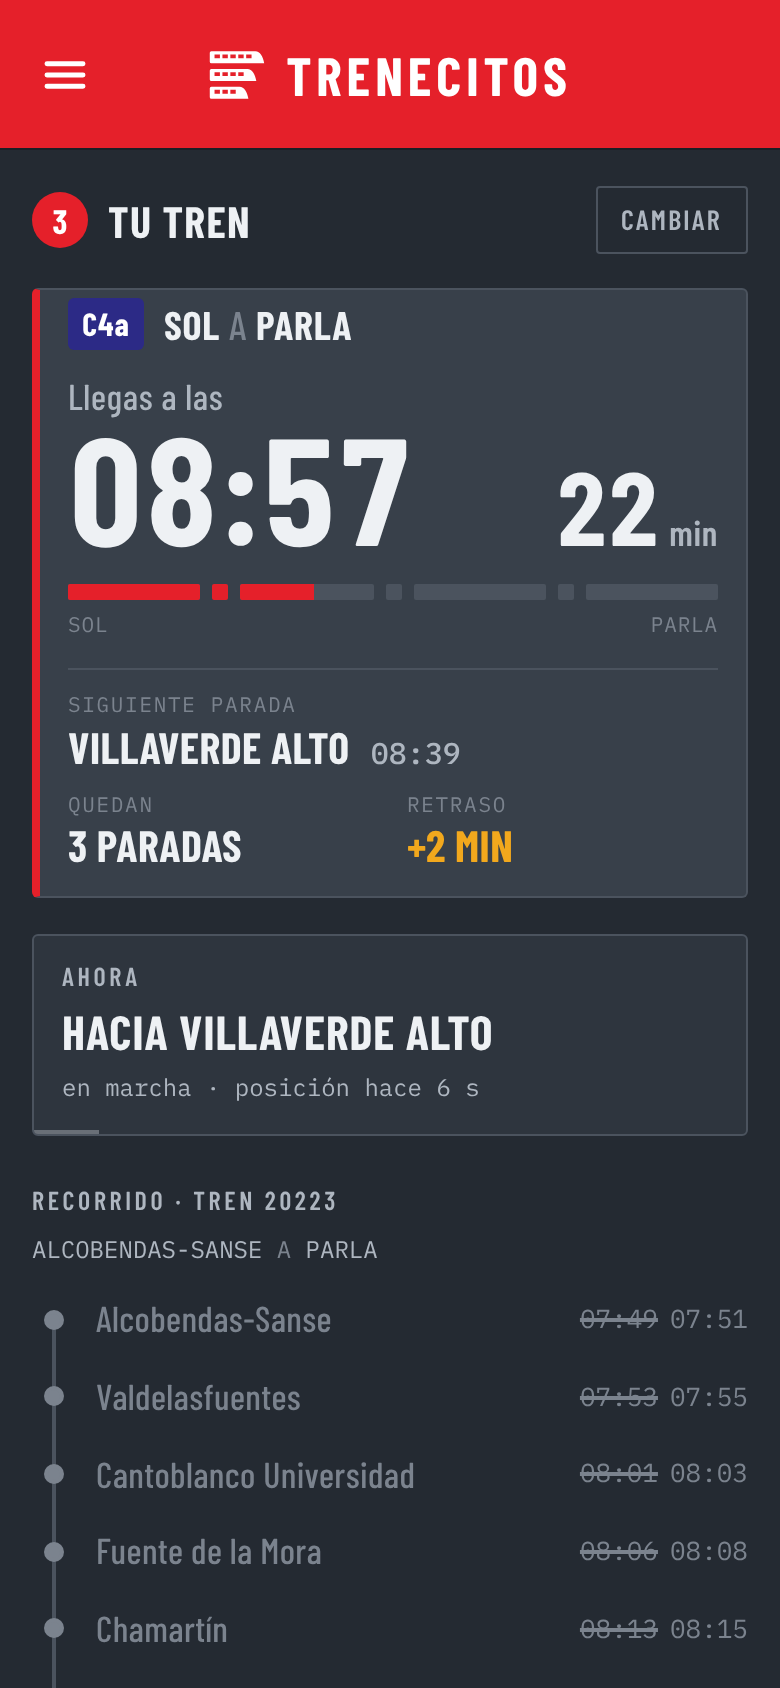
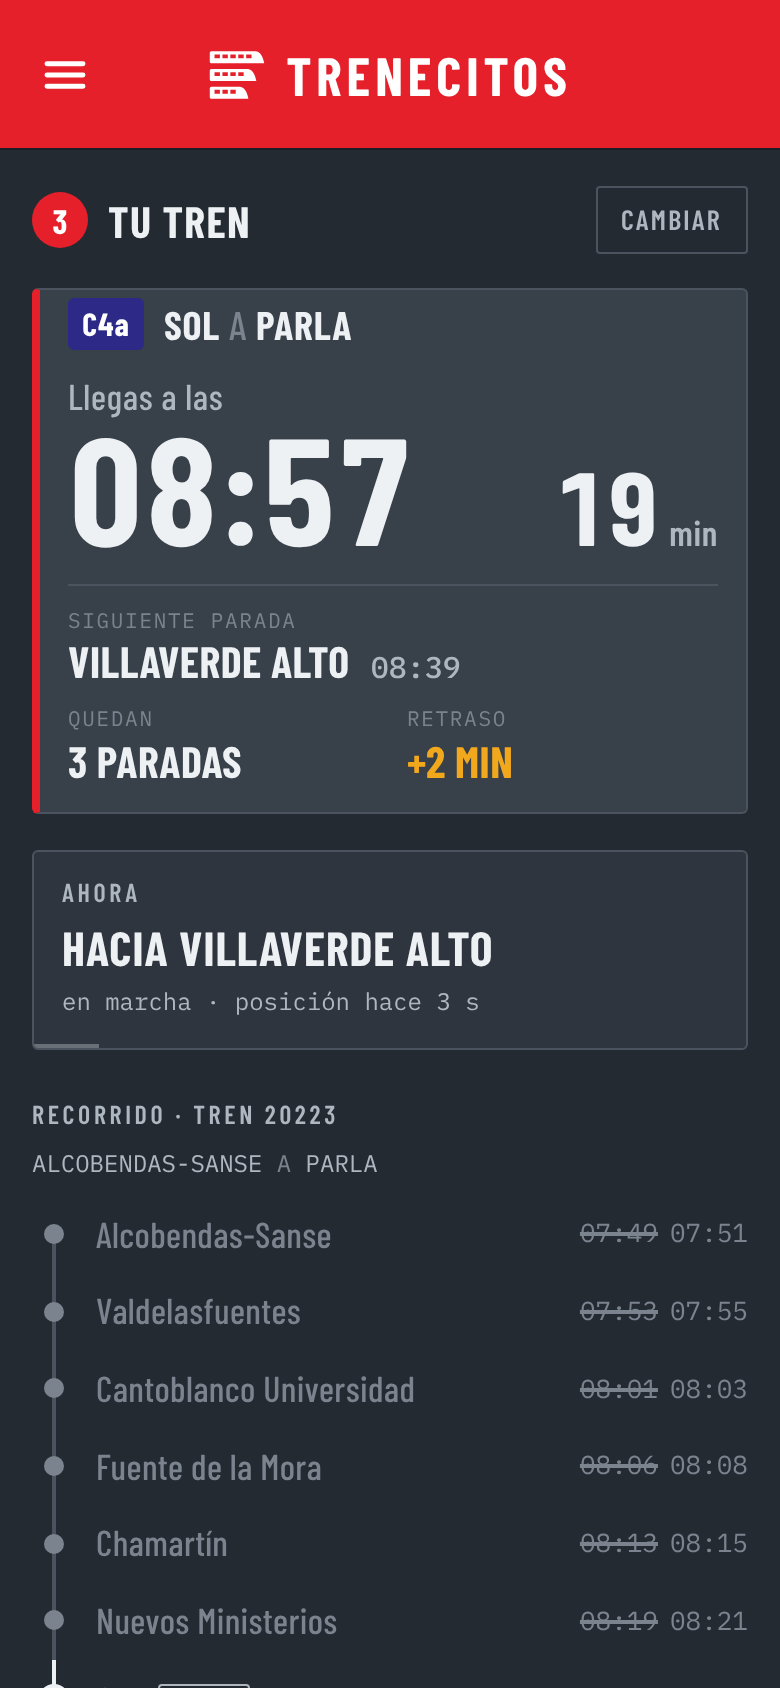
Paso 3: quita la barra de tramos y los nombres de debajo
El detalle ya está en «Siguiente parada», «Quedan» y el recorrido. Capturas del paso 3 y vista previa rehechas (og:image ?v=8). Versión 121.

Claude-Session: https://claude.ai/code/session_01XLSZwhcpX4cWhsFef5cfD3

diff --git a/src/ride.js b/src/ride.js
@@ -26,16 +26,6 @@ export function rideInfo(d, now) {
 /** Marca de tiempo (ms) tras la cual la tarjeta se retira sola. */
 export const rideExpiry = (ride, d) => (d ? d.train.estArr : ride.schedArr) + (d ? 4 : 40) * 60e3;
 
-/**
- * Relleno (0–1) del tramo i de la barra del paso 3. k es el tramo en el que va el tren (-1: aún no ha salido):
- * los anteriores, llenos; los siguientes, vacíos; el suyo, por tiempo entre sus dos paradas (sin llegar a tocarlas).
- */
-export function progFill(times, k, i, now, stopped = false) {
-  if (i < k) return 1;
-  if (i > k || stopped) return 0;
-  return Math.min(.92, Math.max(.08, (now - times[i]) / Math.max(1, times[i + 1] - times[i])));
-}
-
 const cell = (k, v, cls = '', wide = false) => `<div class="ride__c${wide ? ' ride__c--wide' : ''}"><span>${k}</span><b${cls ? ` class="${cls}"` : ''}>${v}</b></div>`;
 
 export function rideHTML(ride, d, now) {
@@ -44,7 +34,7 @@ export function rideHTML(ride, d, now) {
   if (!d) return `<section class="ride"><div class="ride__body"><div class="ride__who">${who}</div><p class="ride__sub">Cargando…</p></div></section>`;
 
   const t = d.train, info = rideInfo(d, now), dl = delayInfo(t.delay);
-  let main, sub = '', cells = '', prog = '', waiting3 = false;
+  let main, sub = '', cells = '', waiting3 = false;
 
   if (info.phase === 'cancelled') {
     main = '<p class="ride__big ride__big--bad">Tren cancelado</p>';
@@ -60,13 +50,6 @@ export function rideHTML(ride, d, now) {
         <div><p class="ride__lbl">${waiting ? `Sale${tag ? ' ' + tag : ''} a las` : 'Llegas a las'}</p><p class="ride__time">${hhmm(target)}</p></div>
         ${waiting && t.held ? '<div class="ride__eta is-soon is-long"><b>Sin salir</b></div>' : `<div class="ride__eta${e.soon ? ' is-soon' : ''}${e.long ? ' is-long' : ''}" data-eta="${target}" data-k="${esc(etaKey(e))}">${etaHTML(e)}</div>`}
       </div>`;
-    // Un tramo por cada salto entre paradas y un punto en cada hueco; se rellena hasta donde va el tren.
-    const times = d.stops.slice(d.iFrom, d.iTo + 1).map(s => s.est);
-    times[0] = t.estDep; times[times.length - 1] = t.estArr;
-    const k = waiting ? -1 : info.stoppedAt ? d.stops.indexOf(info.stoppedAt) - d.iFrom : d.stops.indexOf(info.next) - d.iFrom - 1;
-    const segs = times.slice(1).map((_, i) => `${i ? `<u${i <= k ? ' class="on"' : ''}></u>` : ''}<b><i${i === k && !info.stoppedAt ? ' class="run"' : ''} style="width:${(progFill(times, k, i, now, !!info.stoppedAt) * 100).toFixed(1)}%"></i></b>`).join('');
-    prog = `<div class="prog" data-t="${times.join(',')}" data-k="${k}"${info.stoppedAt ? ' data-stop="1"' : ''}>${segs}</div>
-      <div class="prog__ends"><span>${esc(ride.from.name)}</span><span>${esc(ride.to.name)}</span></div>`;
     if (waiting) {
       sub = `<p class="ride__sub">Llegas a ${esc(ride.to.name)} a las <b>${hhmm(t.estArr)}</b></p>`;
       waiting3 = true;
@@ -83,7 +66,7 @@ export function rideHTML(ride, d, now) {
   return `<section class="ride ride--${info.phase}">
     <div class="ride__body">
       <div class="ride__who">${who}</div>
-      ${main}${sub}${prog}
+      ${main}${sub}
       ${cells ? `<div class="ride__cells${waiting3 ? ' ride__cells--3' : ''}">${cells}</div>` : ''}
       ${lost}
     </div>

diff --git a/styles.css b/styles.css
@@ -312,16 +312,6 @@ svg { display: block; }
 .ride__big--bad { color: var(--red); }
 .ride__sub { margin-top: 10px; font: 400 12.5px/1.4 var(--mono); color: var(--dim); }
 .ride__sub b { color: var(--ink); font-weight: 500; }
-.prog { display: flex; align-items: center; gap: 6px; margin-top: 16px; }
-.prog b { position: relative; flex: 1; height: 8px; border-radius: 1px; background: var(--rule); overflow: hidden; }
-.prog i { position: absolute; left: 0; top: 0; bottom: 0; background: var(--accent); transition: width .6s linear; }
-/* Tramo en curso: el rojo sale una y otra vez de su inicio hasta donde va el tren. */
-.prog i.run { transform-origin: left; animation: prog-run 1.8s cubic-bezier(.3, 0, .2, 1) infinite; }
-@keyframes prog-run { 0% { transform: scaleX(0); } 70%, 100% { transform: scaleX(1); } }
-@media (prefers-reduced-motion: reduce) { .prog i.run { animation: none; } }
-.prog u { flex: none; width: 8px; height: 8px; border-radius: 1px; background: var(--rule); }
-.prog u.on { background: var(--accent); }
-.prog__ends { display: flex; justify-content: space-between; gap: 12px; margin-top: 6px; font: 400 10.5px/1.2 var(--mono); color: var(--faint); text-transform: uppercase; letter-spacing: .04em; }
 .ride__cells { display: grid; grid-template-columns: 1fr 1fr; gap: 12px 14px; margin-top: 16px; padding-top: 12px; border-top: 1px solid var(--rule); }
 .ride__c { min-width: 0; }
 .ride__c span { display: block; margin-bottom: 4px; font: 400 10.5px/1 var(--mono); letter-spacing: .08em; text-transform: uppercase; color: var(--faint); }

diff --git a/index.html b/index.html
@@ -12,7 +12,7 @@
 <meta property="og:title" content="Trenecitos · ¿Llegas al tren?">
 <meta property="og:description" content="Cercanías Madrid en tiempo real: elige tu tren para saber cuándo llega">
 <meta property="og:url" content="https://trenecitos.pages.dev/">
-<meta property="og:image" content="https://trenecitos.pages.dev/img/og.png?v=7">
+<meta property="og:image" content="https://trenecitos.pages.dev/img/og.png?v=8">
 <meta property="og:image:type" content="image/png">
 <meta property="og:image:width" content="1200">
 <meta property="og:image:height" content="630">
@@ -20,7 +20,7 @@
 <meta name="twitter:card" content="summary_large_image">
 <meta name="twitter:title" content="Trenecitos · ¿Llegas al tren?">
 <meta name="twitter:description" content="Cercanías Madrid en tiempo real: elige tu tren para saber cuándo llega">
-<meta name="twitter:image" content="https://trenecitos.pages.dev/img/og.png?v=7">
+<meta name="twitter:image" content="https://trenecitos.pages.dev/img/og.png?v=8">
 <link rel="manifest" href="manifest.webmanifest">
 <link rel="canonical" href="https://trenecitos.pages.dev/">
 <link rel="icon" href="favicon.ico" sizes="any">

diff --git a/src/app.js b/src/app.js
@@ -1,7 +1,7 @@
 import * as store from './store.js';
 import { etaParts, etaKey, etaHTML, hhmm } from './format.js';
 import { tripsViewHTML, pickViewHTML, detailBodyHTML, stepHTML } from './ui.js';
-import { rideHTML, rideInfo, rideExpiry, progFill } from './ride.js';
+import { rideHTML, rideInfo, rideExpiry } from './ride.js';
 import { settingsHTML } from './settings.js';
 import { pickerHTML, initPicker } from './picker.js';
 import { initNav, ask, sync } from './nav.js';
@@ -171,12 +171,6 @@ function tick() {
     if (el.dataset.k !== k) { el.dataset.k = k; el.innerHTML = etaHTML(e); }
     el.classList.toggle('is-soon', e.soon);
     el.classList.toggle('is-long', e.long);
-  });
-  document.querySelectorAll('.prog').forEach(el => {
-    const times = el.dataset.t.split(',').map(Number), k = +el.dataset.k;
-    if (k < 0 || el.dataset.stop) return;
-    const i = el.querySelectorAll('i')[k];
-    if (i) i.style.width = (progFill(times, k, k, now) * 100).toFixed(1) + '%';
   });
 }
 

diff --git a/src/version.js b/src/version.js
@@ -1,3 +1,3 @@
 // Versión de la app, la numeramos nosotros a mano (no tiene que ver con el build ni con la caché):
 // la primera con este sistema fue la 100 (24-nov-2026); +10 en cambios gordos, +1 en los de impacto medio y sin cambio en tonterías.
-export const VERSION = 120;
+export const VERSION = 121;
